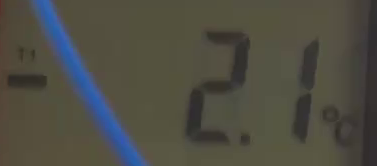
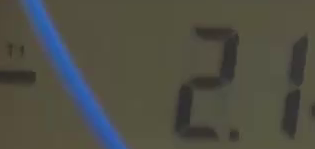
Created seven digit test instead of OCR

diff --git a/read_display.py b/read_display.py
@@ -1,0 +1,111 @@
+"""
+read_display.py  -  read a 7-segment temperature display from a saved crop.
+
+Usage:   python read_display.py Box1.png
+Output:  prints the value, and saves debug_overlay.png so you can SEE
+         which regions are being checked (use it to tune the numbers below).
+"""
+import sys
+import cv2
+import numpy as np
+
+# ------------------------------------------------------------------
+# SETTINGS  (all x, y numbers are pixels inside the CROP, not the video frame)
+# ------------------------------------------------------------------
+SLANT = 0.12            # how far the display leans right at the top (0 = upright)
+DECIMALS = 1            # digits after the decimal point (2.1 -> 1)
+LIT_THRESHOLD = 0.45    # a segment counts as "on" if this fraction of it is dark
+
+MINUS_BOX = (6, 74, 34, 12)          # (x, y, w, h) sitting INSIDE the "-" sign at far left
+
+# one (x, y, w, h) box per digit position, left to right, in DESKEWED coordinates
+DIGIT_BOXES = [
+    (189, 31, 56, 112),
+    (256, 31, 56, 112),
+]
+
+# Each segment is a rectangle inside a digit box, as fractions (x0, x1, y0, y1)
+SEGMENTS = {
+    "a": (0.25, 0.75, 0.02, 0.14),
+    "b": (0.78, 0.98, 0.16, 0.44),
+    "c": (0.78, 0.98, 0.56, 0.84),
+    "d": (0.25, 0.75, 0.86, 0.98),
+    "e": (0.02, 0.22, 0.56, 0.84),
+    "f": (0.02, 0.22, 0.16, 0.44),
+    "g": (0.25, 0.75, 0.43, 0.57),
+}
+
+# which segments are lit for each digit
+PATTERNS = {
+    "abcdef": "0", "bc": "1", "abged": "2", "abgcd": "3", "fgbc": "4",
+    "afgcd": "5", "afgedc": "6", "abc": "7", "abcdefg": "8", "abcdfg": "9",
+}
+PATTERNS = {frozenset(k): v for k, v in PATTERNS.items()}
+
+
+# ------------------------------------------------------------------
+def get_ink(crop):
+    """Return image where digit pixels = 255 and everything else = 0."""
+    gray = cv2.cvtColor(crop, cv2.COLOR_BGR2GRAY) if crop.ndim == 3 else crop
+    _, ink = cv2.threshold(gray, 0, 255, cv2.THRESH_BINARY_INV + cv2.THRESH_OTSU)
+    return ink
+
+
+def deskew(ink):
+    """Shear the image so the leaning digits stand upright."""
+    h, w = ink.shape
+    y0 = h / 2
+    M = np.float32([[1, SLANT, -SLANT * y0], [0, 1, 0]])
+    return cv2.warpAffine(ink, M, (w, h), flags=cv2.INTER_LINEAR)
+
+
+def fraction_on(ink, x0, y0, x1, y1):
+    region = ink[int(y0):int(y1), int(x0):int(x1)]
+    return 0.0 if region.size == 0 else region.mean() / 255
+
+
+def read_digit(upright, box):
+    x, y, w, h = box
+    lit = set()
+    for name, (fx0, fx1, fy0, fy1) in SEGMENTS.items():
+        if fraction_on(upright, x + fx0 * w, y + fy0 * h, x + fx1 * w, y + fy1 * h) > LIT_THRESHOLD:
+            lit.add(name)
+    if not lit:
+        return " "                                   # blank digit position
+    return PATTERNS.get(frozenset(lit), "?")
+
+
+def read_display(crop, save_overlay=None):
+    """Return the temperature as a float, or None if any digit was unreadable."""
+    ink = get_ink(crop)
+    upright = deskew(ink)
+
+    mx, my, mw, mh = MINUS_BOX
+    negative = fraction_on(ink, mx, my, mx + mw, my + mh) > LIT_THRESHOLD
+
+    chars = "".join(read_digit(upright, b) for b in DIGIT_BOXES).strip()
+    if save_overlay:
+        draw_overlay(upright, save_overlay)
+    if not chars or "?" in chars or " " in chars:
+        return None
+    if DECIMALS:
+        chars = chars[:-DECIMALS] + "." + chars[-DECIMALS:]
+    value = float(chars)
+    return -value if negative else value
+
+
+def draw_overlay(upright, path):
+    img = cv2.cvtColor(255 - upright, cv2.COLOR_GRAY2BGR)
+    for (x, y, w, h) in DIGIT_BOXES:
+        cv2.rectangle(img, (x, y), (x + w, y + h), (255, 0, 0), 1)
+        for (fx0, fx1, fy0, fy1) in SEGMENTS.values():
+            cv2.rectangle(img, (int(x + fx0 * w), int(y + fy0 * h)),
+                               (int(x + fx1 * w), int(y + fy1 * h)), (0, 0, 255), 1)
+    mx, my, mw, mh = MINUS_BOX
+    cv2.rectangle(img, (mx, my), (mx + mw, my + mh), (0, 160, 0), 1)
+    cv2.imwrite(path, img)
+
+
+if __name__ == "__main__":
+    crop = cv2.imread("Box1_masked.png")
+    print("Reading:", read_display(crop, save_overlay="debug_overlay.png"))

diff --git a/tracing.py b/tracing.py
@@ -1,0 +1,32 @@
+import cv2
+
+points = []  # will store all the (x, y) coordinates you click
+
+def click_event(event, x, y, flags, param):
+    if event == cv2.EVENT_LBUTTONDOWN:  # left mouse button clicked
+        points.append((x, y))
+        print(f"Point added: {x}, {y}")
+
+frame = cv2.imread("Box1.png")
+
+cv2.imshow("Click points, then press any key when done", frame)
+cv2.setMouseCallback("Click points, then press any key when done", click_event)
+cv2.waitKey(0)
+cv2.destroyAllWindows()
+
+print("All points:", points)
+
+import numpy as np
+
+img = cv2.imread("Box1.png")
+mask = np.zeros(img.shape[:2], dtype=np.uint8)   # all-black image, same height/width as the crop
+
+pts = np.array(points, dtype=np.int32)          # convert the list of clicks into a numpy array
+cv2.fillPoly(mask, [pts], 255)                  # fill the inside of the polygon with white
+
+cv2.imwrite("Box1_mask.png", mask)
+
+mask = cv2.imread("Box1_mask.png", 0)   # the 0 means "load as grayscale"
+_, thresh = cv2.threshold(gray, 0, 255, cv2.THRESH_BINARY + cv2.THRESH_OTSU)
+thresh[mask == 0] = 255                 # anywhere the mask is black, paint white
+cv2.imwrite("Box1_masked.png", thresh)
